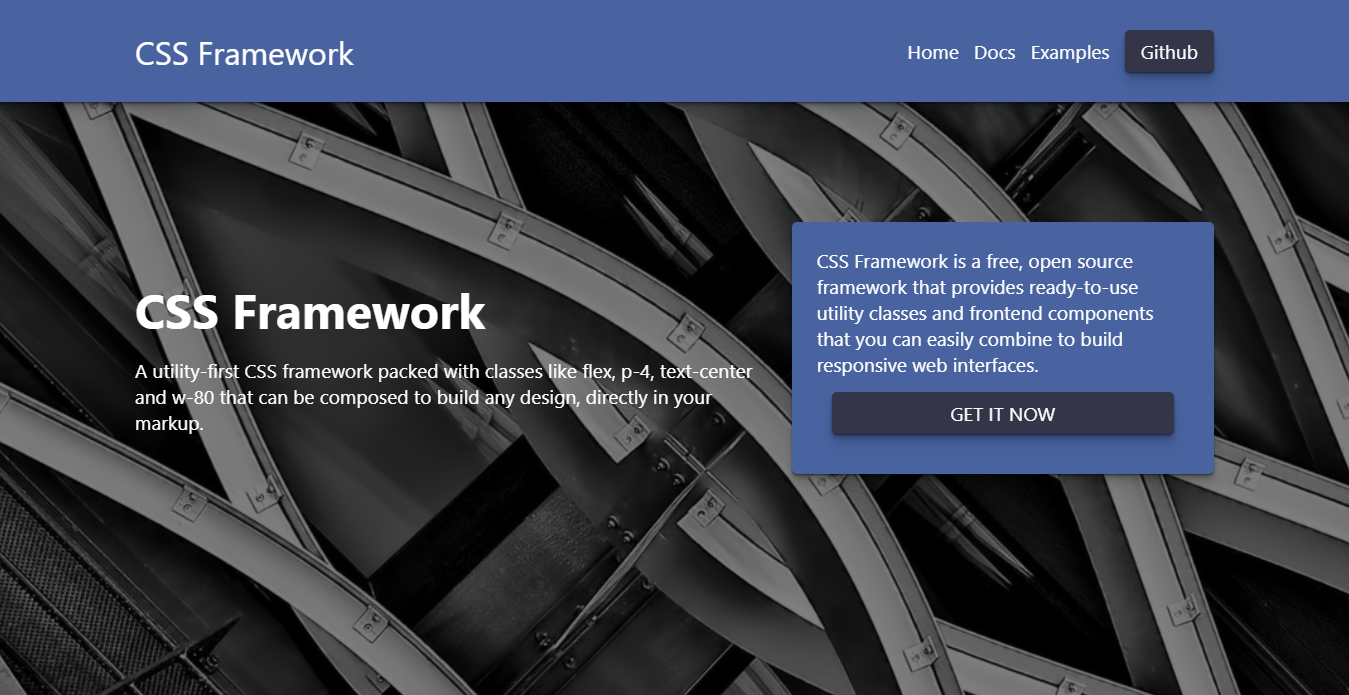
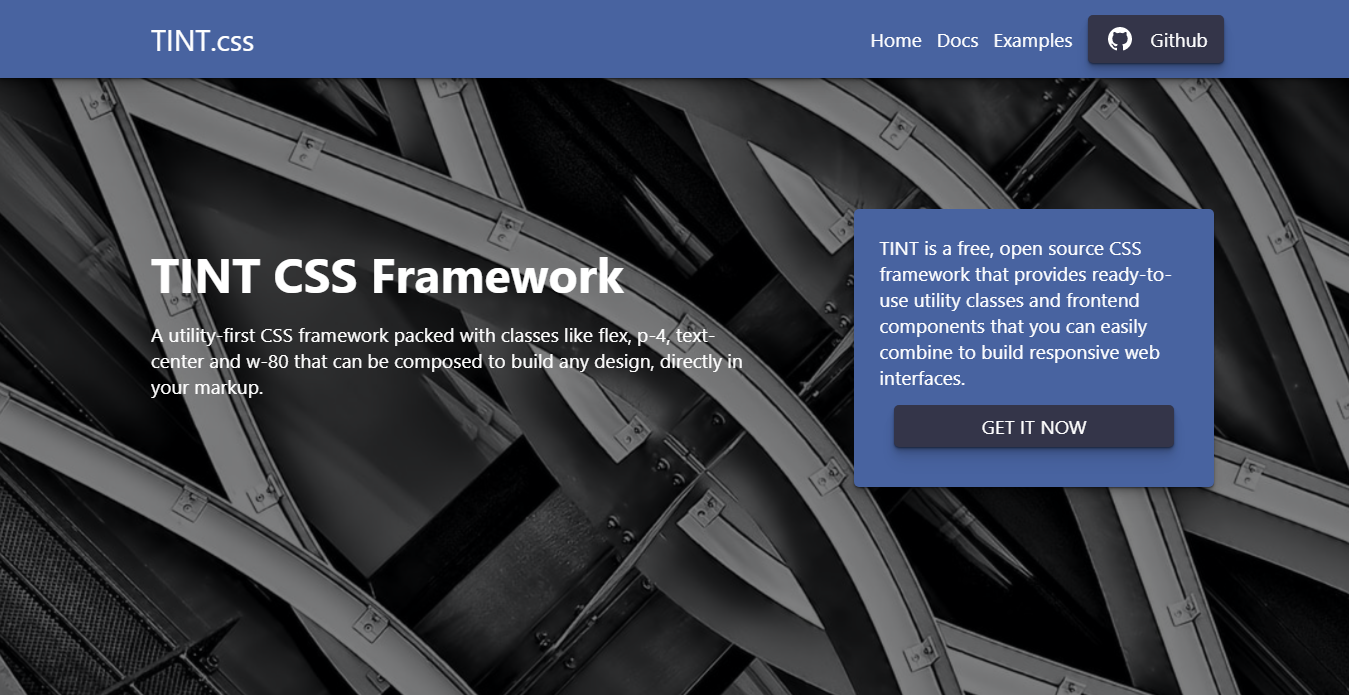
Renamed
Renamed to TINT

Changed region(s): [[0.0934, 0.3022, 0.9029, 0.7252], [0.0, 0.0, 1.0, 0.1511]]

diff --git a/docs.html b/docs.html
@@ -8,10 +8,10 @@
 
     <!--  Essential META Tags -->
 
-    <meta property="og:title" content="INT CSS Framework by Emsad">
+    <meta property="og:title" content="TINT CSS Framework | TINT Is Not Tailwind">
     <meta property="og:description"
-        content="INT CSS Framework is a utility-first css-framework made by Emsad / It's not tailwind">
-    <meta property="og:image" content="./css-framework.png">
+        content="TINT CSS Framework is a utility-first css-framework | TINT CSS Framework | TINT Is Not Tailwind">
+    <meta property="og:image" content="https://emsad87.github.io/css-framework/css-framework.png">
     <meta property="og:url" content="https://emsad87.github.io/css-framework/">
     <meta name="twitter:card" content="summary_large_image">
 
@@ -20,10 +20,10 @@
 
     <!--  Non-Essential, But Recommended -->
 
-    <meta property="og:site_name" content="INT CSS Framework by Emsad">
-    <meta name="twitter:image:alt" content="INT CSS Framework by Emsad">
+    <meta property="og:site_name" content="TINT CSS Framework | TINT Is Not Tailwind">
+    <meta name="twitter:image:alt" content="TINT CSS Framework | TINT Is Not Tailwind">
 
-    <title>INT CSS Framework</title>
+    <title>TINT CSS Framework | TINT Is Not Tailwind</title>
 
     <link rel="stylesheet" href="./css/style.css">
 </head>
@@ -35,7 +35,7 @@
         <div class="container-fluid j-center md-j-between a-center">
             <div class="row j-between a-center w-80 sm-text-center">
                 <div class="navbar__toggle" id="js-navbar-toggle"></div>
-                <a class="col-md-4 col-12 fsize-150" href="#home">INT.css</a>
+                <a class="col-md-4 col-12 fsize-150" href="#home">TINT.css</a>
                 <ul class="col-md-4 col-12 none md-flex md-f-row f-col a-center gap-15 list-none" id="js-menu">
                     <li>
                         <a href="./index.html" class="navbar__link">Home</a>
@@ -67,7 +67,7 @@
         <div class="hero__bg"><img src="https://source.unsplash.com/collection/53285157" alt=""></div>
         <section class="row center w-80">
             <article class="col-12 col-sm-6">
-                <h1 class="sm-fsize-140">INT Documentation</h1>
+                <h1 class="sm-fsize-140">TINT Documentation</h1>
             </article>
         </section>
     </div>
@@ -76,7 +76,7 @@
         <section class="w-80">
             <h2>Getting started</h2>
             <p>
-                To use INT CSS Framework download the css file from
+                To use TINT CSS Framework download the css file from
                 <a class="c-white" href="https://github.com/emsad87/css-framework">github</a> and refer to it in the
                 head element of your html file.
             </p>
@@ -126,7 +126,7 @@
                 <table class="fsize-90">
                     <h3>Position</h3>
                     <tr>
-                        <th>INT Class</th>
+                        <th>TINT Class</th>
                         <th>CSS Property and value</th>
                     </tr>
                     <tr>
@@ -172,7 +172,7 @@
                 <table class="fsize-90">
                     <h3>Top - Right - Bottom - Left</h3>
                     <tr>
-                        <th>INT Class</th>
+                        <th>TINT Class</th>
                         <th>CSS Property and value</th>
                         <th>Range</th>
                     </tr>
@@ -234,7 +234,7 @@
                 <table class="fsize-90">
                     <h3>z-index</h3>
                     <tr>
-                        <th>INT Class</th>
+                        <th>TINT Class</th>
                         <th>CSS Property and value</th>
                         <th>Range</th>
                     </tr>
@@ -282,7 +282,7 @@
             <article class="m-15-bottom p-15 bg-secondary r-5 shadow-sharp over-auto">
                 <table class="fsize-90">
                     <tr>
-                        <th>INT Class</th>
+                        <th>TINT Class</th>
                         <th>CSS Property and value</th>
                     </tr>
                     <tr>
@@ -343,7 +343,7 @@
             <article class="m-15-bottom p-15 bg-secondary r-5 shadow-sharp over-auto">
                 <table class="fsize-90">
                     <tr>
-                        <th>INT Class</th>
+                        <th>TINT Class</th>
                         <th>CSS Property and value</th>
                         <th>Range</th>
                     </tr>
@@ -407,7 +407,7 @@
                 <h3>Margin</h3>
                 <table class="fsize-90">
                     <tr>
-                        <th>INT Class</th>
+                        <th>TINT Class</th>
                         <th>CSS Property and value</th>
                         <th>Range</th>
                     </tr>
@@ -455,7 +455,7 @@
                 <h3>Padding</h3>
                 <table class="fsize-90">
                     <tr>
-                        <th>INT Class</th>
+                        <th>TINT Class</th>
                         <th>CSS Property and value</th>
                         <th>Range</th>
                     </tr>
@@ -525,7 +525,7 @@
                 <h3>Font size</h3>
                 <table class="fsize-90">
                     <tr>
-                        <th>INT Class</th>
+                        <th>TINT Class</th>
                         <th>CSS Property and value</th>
                         <th>Range</th>
                     </tr>
@@ -550,7 +550,7 @@
                 <h3>Color</h3>
                 <table class="fsize-90">
                     <tr>
-                        <th>INT Class</th>
+                        <th>TINT Class</th>
                         <th>CSS Property and value</th>
                         <th>Range</th>
                     </tr>
@@ -595,7 +595,7 @@
                 <h3>Text aling</h3>
                 <table class="fsize-90">
                     <tr>
-                        <th>INT Class</th>
+                        <th>TINT Class</th>
                         <th>CSS Property and value</th>
                     </tr>
                     <tr>
@@ -644,7 +644,7 @@
                 <h3>List</h3>
                 <table class="fsize-90">
                     <tr>
-                        <th>INT Class</th>
+                        <th>TINT Class</th>
                         <th>CSS Property and value</th>
                         <th>Range</th>
                     </tr>
@@ -666,7 +666,7 @@
                 <h3>Anchor</h3>
                 <table class="fsize-90">
                     <tr>
-                        <th>INT Class</th>
+                        <th>TINT Class</th>
                         <th>CSS Property and value</th>
                     </tr>
                     <tr>
@@ -681,7 +681,7 @@
                         </td>
                     </tr>
                     <tr>
-                        <th>INT Class</th>
+                        <th>TINT Class</th>
                         <th>CSS Property and value</th>
                     </tr>
                     <tr>
@@ -727,7 +727,7 @@
                 <h3>Background</h3>
                 <table class="fsize-90">
                     <tr>
-                        <th>INT Class</th>
+                        <th>TINT Class</th>
                         <th>CSS Property and value</th>
                         <th>Range</th>
                     </tr>
@@ -767,7 +767,7 @@
                 <h3>Border</h3>
                 <table class="fsize-90">
                     <tr>
-                        <th>INT Class</th>
+                        <th>TINT Class</th>
                         <th>CSS Property and value</th>
                         <th>Range</th>
                     </tr>
@@ -878,7 +878,7 @@
                 <h3>Radius</h3>
                 <table class="fsize-90">
                     <tr>
-                        <th>INT Class</th>
+                        <th>TINT Class</th>
                         <th>CSS Property and value</th>
                         <th>Range</th>
                     </tr>
@@ -921,7 +921,7 @@
                 <h3>Shadow</h3>
                 <table class="fsize-90">
                     <tr>
-                        <th>INT Class</th>
+                        <th>TINT Class</th>
                         <th>CSS Property and value</th>
                     </tr>
                     <tr>
@@ -1047,7 +1047,7 @@
                 <h3>Animation</h3>
                 <table class="fsize-90">
                     <tr>
-                        <th>INT Class</th>
+                        <th>TINT Class</th>
                         <th>CSS Property and value</th>
                     </tr>
                     <tr>

diff --git a/index.html b/index.html
@@ -8,10 +8,10 @@
 
     <!--  Essential META Tags -->
 
-    <meta property="og:title" content="INT CSS Framework by Emsad">
+    <meta property="og:title" content="TINT CSS Framework | TINT Is Not Tailwind">
     <meta property="og:description"
-        content="INT CSS Framework is a utility-first css-framework made by Emsad / It's not tailwind">
-    <meta property="og:image" content="./css-framework.png">
+        content="TINT CSS Framework is a utility-first css-framework | TINT CSS Framework | TINT Is Not Tailwind">
+    <meta property="og:image" content="https://emsad87.github.io/css-framework/css-framework.png">
     <meta property="og:url" content="https://emsad87.github.io/css-framework/">
     <meta name="twitter:card" content="summary_large_image">
 
@@ -20,10 +20,10 @@
 
     <!--  Non-Essential, But Recommended -->
 
-    <meta property="og:site_name" content="INT CSS Framework by Emsad">
-    <meta name="twitter:image:alt" content="INT CSS Framework by Emsad">
+    <meta property="og:site_name" content="TINT CSS Framework | TINT Is Not Tailwind">
+    <meta name="twitter:image:alt" content="TINT CSS Framework | TINT Is Not Tailwind">
 
-    <title>INT CSS Framework</title>
+    <title>TINT CSS Framework | TINT Is Not Tailwind</title>
 
     <link rel="stylesheet" href="./css/style.css">
 </head>
@@ -35,7 +35,7 @@
         <div class="container-fluid j-center md-j-between a-center">
             <div class="row j-between a-center w-80 sm-text-center">
                 <div class="navbar__toggle" id="js-navbar-toggle"></div>
-                <a class="col-md-4 col-12 fsize-150" href="#home">INT.css</a>
+                <a class="col-md-4 col-12 fsize-150" href="#home">TINT.css</a>
                 <ul class="col-md-4 col-12 none md-flex md-f-row f-col a-center gap-15 list-none" id="js-menu">
                     <li>
                         <a href="./index.html" class="navbar__link">Home</a>
@@ -67,13 +67,13 @@
         <div class="hero__bg"><img src="https://source.unsplash.com/collection/53285157" alt=""></div>
         <section class="row j-between w-80">
             <article class="col-md-7 col-12">
-                <h1>INT CSS Framework</h1>
+                <h1>TINT CSS Framework</h1>
                 <p>A utility-first CSS framework packed with classes like flex, p-4, text-center and w-80 that can be
                     composed to
                     build any design, directly in your markup.</p>
             </article>
             <aside class="col-12 col-md-4 bg-steel p-25 r-5 shadow-sharp">
-                INT is a free, open source CSS framework that provides ready-to-use utility classes and frontend
+                TINT is a free, open source CSS framework that provides ready-to-use utility classes and frontend
                 components that you
                 can easily combine to
                 build responsive web interfaces.
@@ -87,9 +87,9 @@
 
     <main class="flex f-col a-center gap-50 p-50-y bg-steel shadow-sharp shadow-sharp">
         <section class="w-80">
-            <h2>About INT</h2>
+            <h2>About TINT</h2>
             <p>
-                INT is a free, open source CSS framework that provides ready-to-use utility classes and frontend
+                TINT is a free, open source CSS framework that provides ready-to-use utility classes and frontend
                 components that you
                 can easily combine to
                 build responsive web interfaces.

diff --git a/examples.html b/examples.html
@@ -8,10 +8,10 @@
 
     <!--  Essential META Tags -->
 
-    <meta property="og:title" content="INT CSS Framework by Emsad">
+    <meta property="og:title" content="TINT CSS Framework | TINT Is Not Tailwind">
     <meta property="og:description"
-        content="INT CSS Framework is a utility-first css-framework made by Emsad / It's not tailwind">
-    <meta property="og:image" content="./css-framework.png">
+        content="TINT CSS Framework is a utility-first css-framework | TINT CSS Framework | TINT Is Not Tailwind">
+    <meta property="og:image" content="https://emsad87.github.io/css-framework/css-framework.png">
     <meta property="og:url" content="https://emsad87.github.io/css-framework/">
     <meta name="twitter:card" content="summary_large_image">
 
@@ -20,10 +20,10 @@
 
     <!--  Non-Essential, But Recommended -->
 
-    <meta property="og:site_name" content="INT CSS Framework by Emsad">
-    <meta name="twitter:image:alt" content="INT CSS Framework by Emsad">
+    <meta property="og:site_name" content="TINT CSS Framework | TINT Is Not Tailwind">
+    <meta name="twitter:image:alt" content="TINT CSS Framework | TINT Is Not Tailwind">
 
-    <title>CSS Framework</title>
+    <title>TINT CSS Framework | TINT Is Not Tailwind</title>
 
     <link rel="stylesheet" href="./css/style.css">
 </head>
@@ -35,7 +35,7 @@
         <div class="container-fluid j-center md-j-between a-center">
             <div class="row j-between a-center w-80 sm-text-center">
                 <div class="navbar__toggle" id="js-navbar-toggle"></div>
-                <a class="col-md-4 col-12 fsize-150" href="#home">INT.css</a>
+                <a class="col-md-4 col-12 fsize-150" href="#home">TINT.css</a>
                 <ul class="col-md-4 col-12 none md-flex md-f-row f-col a-center gap-15 list-none" id="js-menu">
                     <li>
                         <a href="./index.html" class="navbar__link">Home</a>
@@ -67,7 +67,7 @@
         <div class="hero__bg"><img src="https://source.unsplash.com/collection/53285157" alt=""></div>
         <section class="row w-80 j-between">
             <article class="col-md-7 col-12">
-                <h1>CSS Framework</h1>
+                <h1>TINT CSS Framework</h1>
                 <p>A utility-first CSS framework packed with classes like flex, p-4, text-center and w-80 that can be
                     composed to
                     build any design, directly in your markup.</p>
